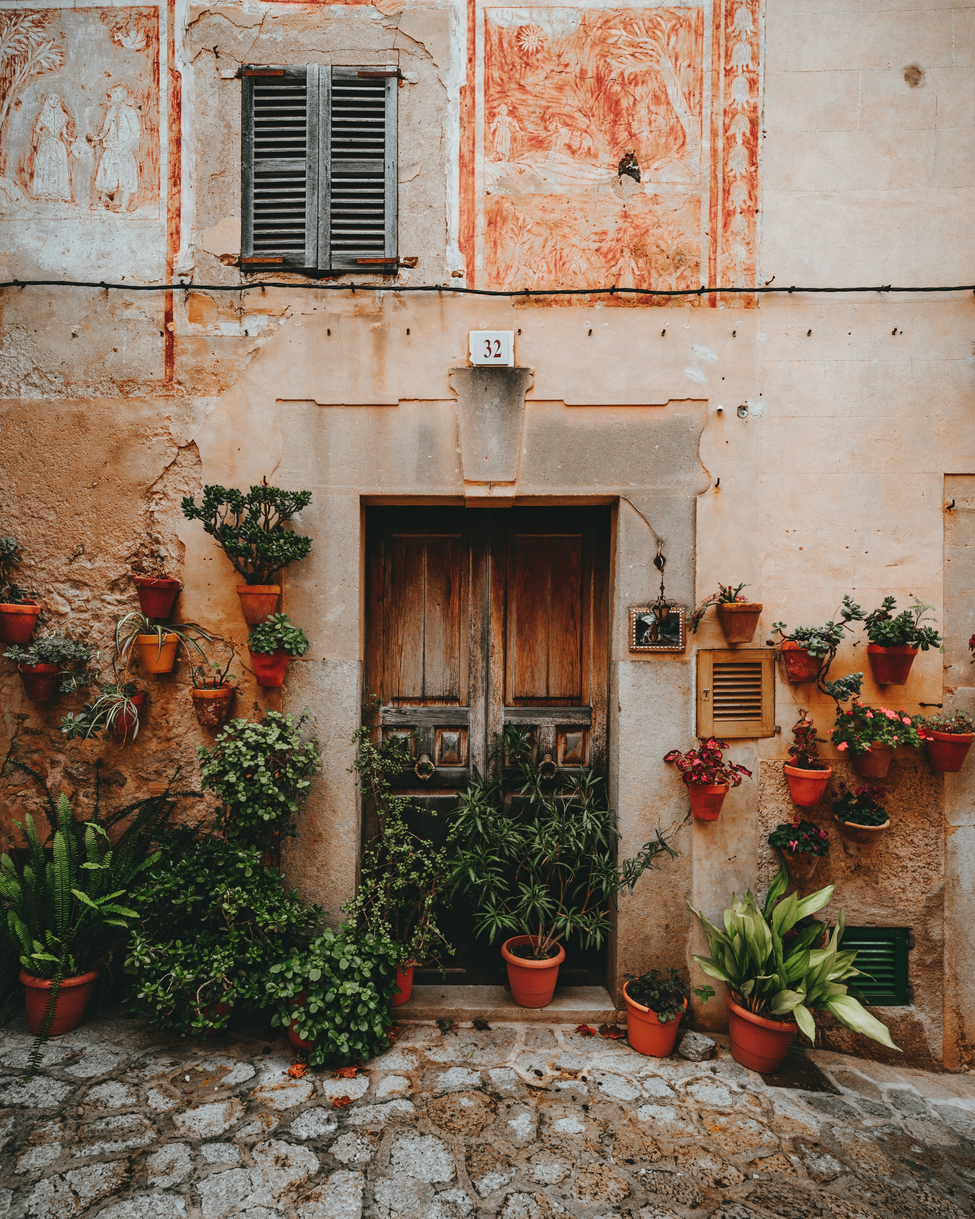
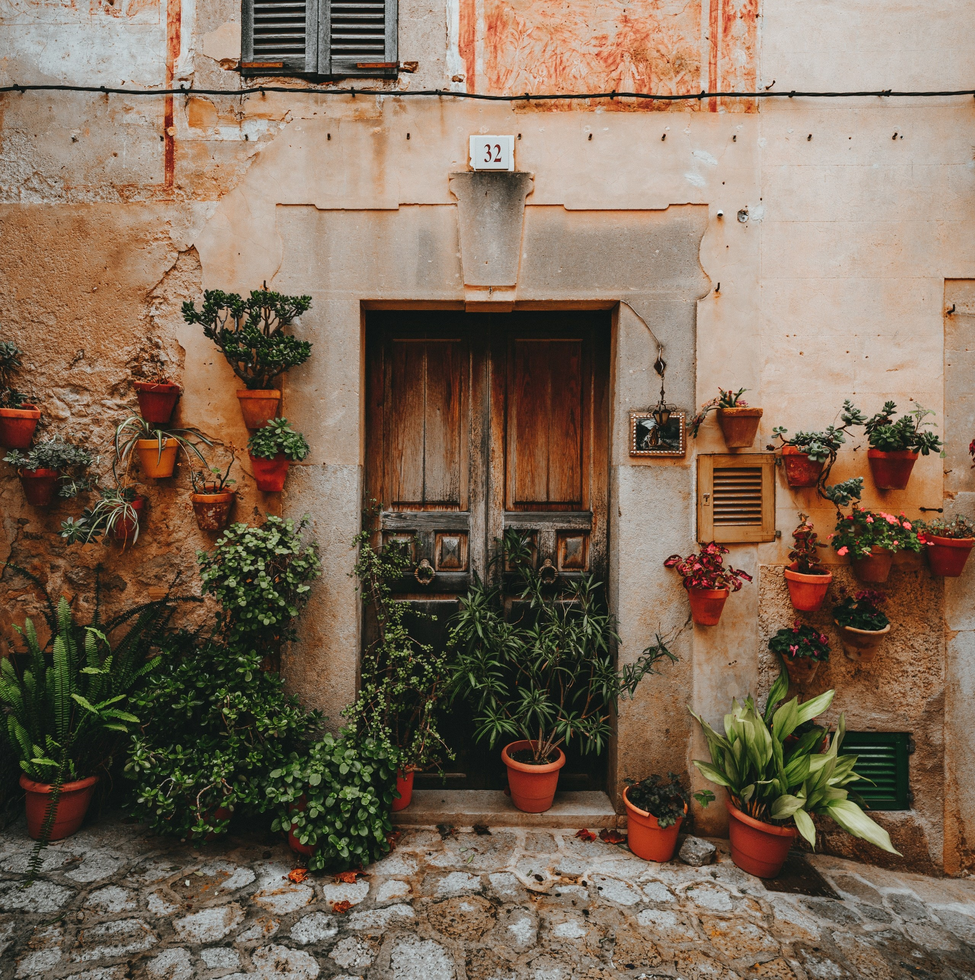
secondary pages completed

diff --git a/valencia.html b/valencia.html
@@ -28,7 +28,7 @@
        </div>
         <!----------------------------------------- PHOTO BANNER -------------------------------------------->
         <div id="photo">
-            <img src="./images/travel_experience_avila.jpg" alt="mario with farmer" class="experience_photo">
+            <img src="./images/valencia_header.jpg" alt="mario with farmer" class="experience_photo">
         </div>
 
         <!----------------------------------------- EXPERIENCES -------------------------------------------->
@@ -38,22 +38,23 @@
         </div>
         <div class="text_div">
             <div id="text_description">
-                <a class="text" id = "avila_text"> Ávila is a city of Spain located in the autonomous community of Castile and León. 
-                    It is the capital and most populated municipality of the Province of Ávila. <br>
-                    <br>
-                    It lies on the right bank of the Adaja river. Located more than 1,130 m above sea level, the city is the highest provincial capital in Spain. <br> 
-                    <br>
-                    Distinctly known by its medieval walls, Ávila is sometimes called the Town of Stones and Saints, and it claims that it is one of the towns with the 
-                    highest number of Romanesque and Gothic churches per capita in Spain.[5] It has complete and prominent medieval town walls, built in the Romanesque 
-                    style; writer José Martínez Ruiz, in his book El alma castellana ("The Castilian Soul"), described it as "perhaps the most 16th-century town in Spain". 
-                    The town is also known as Ávila de los Caballeros, Ávila del Rey and Ávila de los Leales ("Ávila of the knights", "Ávila of the king", 
-                    "Ávila of the loyal ones"), each of these epithets being present in the town standard. <br>
-                    <br>
-                    Orson Welles once named Ávila as the place in which he would most desire to live, calling it a "strange, tragic place".[6] Various scenes 
-                    of his 1965 film Chimes at Midnight were filmed in the town. <br>
-                    <br>
-                    Ávila was declared a UNESCO World Heritage Site in 1985. The site originally consisted of the walled city and four extra muros churches. 
-                    The number of churches included in the site has since been increased.  </a>
+                <a class="text" id = "avila_text"> Valencia (Spanish: [baˈlenθja]), officially València (Valencian: 
+                    [vaˈlensi.a], locally [baˈlensi.a]),[5] is the capital of the autonomous community of Valencia and 
+                    the third-largest city in Spain after Madrid and Barcelona, surpassing 800,000 inhabitants in the municipality. 
+                    The wider urban area also comprising the neighbouring municipalities has a population of around 1.6 million.
+                    [3][6] Valencia is Spain's third-largest metropolitan area, with a population ranging from 1.7 to 2.5 million[2] 
+                    depending on how the metropolitan area is defined. The Port of Valencia is the 5th-busiest container port in 
+                    Europe and the busiest container port on the Mediterranean Sea. The city is ranked as a Gamma-level global 
+                    city by the Globalization and World Cities Research Network.[7]
+                    <br><br>
+                    Valencia was founded as a Roman colony by the consul Decimus Junius Brutus Callaicus in 138 BC and 
+                    called Valentia Edetanorum. In 714, Moroccan and Arab Moors occupied the city, introducing their language, 
+                    religion and customs; they implemented improved irrigation systems and the cultivation of new crops as well. 
+                    Valencia was the capital of the Taifa of Valencia. In 1238 the Christian king James I of Aragon conquered the 
+                    city and divided the land among the nobles who helped him conquer it, as witnessed in the Llibre del Repartiment. 
+                    He also created the new Kingdom of Valencia, which had its own laws (Furs), with Valencia as its main city and capital. 
+                    In the 18th century Philip V of Spain abolished the privileges as punishment to the kingdom of Valencia for 
+                    aligning with the Habsburg side in the War of the Spanish Succession.  </a>
             </div>
         </div>
         <!----------------------------------------- PHOTOS -------------------------------------------->
@@ -66,11 +67,11 @@
         </div>
         <!----------------------------------------- VIDEOS -------------------------------------------->
         <div class="video_container">
-            <iframe class="video" src="https://www.youtube.com/embed/90lkCZdPh6M" title="YouTube video player" frameborder="0" allow="accelerometer; autoplay; clipboard-write; encrypted-media; gyroscope; picture-in-picture" allowfullscreen></iframe>
-            <iframe class="video" src="https://www.youtube.com/embed/wtDapD-Lh4k" title="YouTube video player" frameborder="0" allow="accelerometer; autoplay; clipboard-write; encrypted-media; gyroscope; picture-in-picture" allowfullscreen></iframe>
-            <iframe class="video" src="https://www.youtube.com/embed/dokfAnITHFM" title="YouTube video player" frameborder="0" allow="accelerometer; autoplay; clipboard-write; encrypted-media; gyroscope; picture-in-picture" allowfullscreen></iframe>
-            <iframe class="video" src="https://www.youtube.com/embed/9nf0vigenSo" title="YouTube video player" frameborder="0" allow="accelerometer; autoplay; clipboard-write; encrypted-media; gyroscope; picture-in-picture" allowfullscreen></iframe>
-            <iframe class="video" src="https://www.youtube.com/embed/2QcrdB6I_F8" title="YouTube video player" frameborder="0" allow="accelerometer; autoplay; clipboard-write; encrypted-media; gyroscope; picture-in-picture" allowfullscreen></iframe>
+            <iframe class="video" src="https://www.youtube.com/embed/f4-KyQgJKEQ" title="YouTube video player" frameborder="0" allow="accelerometer; autoplay; clipboard-write; encrypted-media; gyroscope; picture-in-picture" allowfullscreen></iframe>
+            <iframe class="video" src="https://www.youtube.com/embed/UPlEaOIRWGk" title="YouTube video player" frameborder="0" allow="accelerometer; autoplay; clipboard-write; encrypted-media; gyroscope; picture-in-picture" allowfullscreen></iframe>
+            <iframe class="video" src="https://www.youtube.com/embed/jVuixP6qJL8" title="YouTube video player" frameborder="0" allow="accelerometer; autoplay; clipboard-write; encrypted-media; gyroscope; picture-in-picture" allowfullscreen></iframe>
+            <iframe class="video" src="https://www.youtube.com/embed/pt8FlF0d72c" title="YouTube video player" frameborder="0" allow="accelerometer; autoplay; clipboard-write; encrypted-media; gyroscope; picture-in-picture" allowfullscreen></iframe>
+            <iframe class="video" src="https://www.youtube.com/embed/hKyf2rrOidQ" title="YouTube video player" frameborder="0" allow="accelerometer; autoplay; clipboard-write; encrypted-media; gyroscope; picture-in-picture" allowfullscreen></iframe>
         </div>
         <!---------------------------------------------------FOOTER------------------------------------------------------------------>
         <div id="footer">

diff --git a/cadiz.html b/cadiz.html
@@ -28,7 +28,7 @@
        </div>
         <!----------------------------------------- PHOTO BANNER -------------------------------------------->
         <div id="photo">
-            <img src="./images/travel_experience_avila.jpg" alt="mario with farmer" class="experience_photo">
+            <img src="./images/cadiz_header.jpg" alt="mario with farmer" class="experience_photo">
         </div>
 
         <!----------------------------------------- EXPERIENCES -------------------------------------------->
@@ -38,22 +38,24 @@
         </div>
         <div class="text_div">
             <div id="text_description">
-                <a class="text" id = "avila_text"> Ávila is a city of Spain located in the autonomous community of Castile and León. 
-                    It is the capital and most populated municipality of the Province of Ávila. <br>
-                    <br>
-                    It lies on the right bank of the Adaja river. Located more than 1,130 m above sea level, the city is the highest provincial capital in Spain. <br> 
-                    <br>
-                    Distinctly known by its medieval walls, Ávila is sometimes called the Town of Stones and Saints, and it claims that it is one of the towns with the 
-                    highest number of Romanesque and Gothic churches per capita in Spain.[5] It has complete and prominent medieval town walls, built in the Romanesque 
-                    style; writer José Martínez Ruiz, in his book El alma castellana ("The Castilian Soul"), described it as "perhaps the most 16th-century town in Spain". 
-                    The town is also known as Ávila de los Caballeros, Ávila del Rey and Ávila de los Leales ("Ávila of the knights", "Ávila of the king", 
-                    "Ávila of the loyal ones"), each of these epithets being present in the town standard. <br>
-                    <br>
-                    Orson Welles once named Ávila as the place in which he would most desire to live, calling it a "strange, tragic place".[6] Various scenes 
-                    of his 1965 film Chimes at Midnight were filmed in the town. <br>
-                    <br>
-                    Ávila was declared a UNESCO World Heritage Site in 1985. The site originally consisted of the walled city and four extra muros churches. 
-                    The number of churches included in the site has since been increased.  </a>
+                <a class="text" id = "avila_text"> Cádiz (/kəˈdɪz/, also US: /ˈkeɪdɪz, ˈkæd-, ˈkɑːd-/,[2][3][4] Spanish: [ˈkaðiθ]; 
+                    see more below) is a city and port in southwestern Spain. It is the capital of the Province of Cádiz, one of 
+                    eight that make up the autonomous community of Andalusia.
+                    <br><br>
+                    Cádiz, one of the oldest continuously inhabited cities in Western Europe, with archaeological 
+                    remains dating to the 8th century BC,[5][6][7][8] was founded by the Phoenicians.[9] It has been 
+                    a principal home port of the Spanish Navy since the accession of the Spanish Bourbons in the 18th 
+                    century. It is also the site of the University of Cádiz.
+                    <br><br>
+                    Situated on a narrow slice of land surrounded by the sea‚ Cádiz is, in most respects, a 
+                    typically Andalusian city with well-preserved historical landmarks. The older part of Cádiz, 
+                    within the remnants of the city walls, is commonly referred to as the Old Town (Spanish: Casco Antiguo). 
+                    It is characterized by the antiquity of its various quarters (barrios), among them El Pópulo, La Viña, 
+                    and Santa María, which present a marked contrast to the newer areas of town. While the Old City's street 
+                    plan consists of narrow winding alleys connecting large plazas, newer areas of Cádiz typically have wide 
+                    avenues and more modern buildings. In addition, the city is dotted with numerous parks where exotic plants 
+                    flourish, including giant trees allegedly brought to Spain by Columbus from the New World. 
+                </a>
             </div>
         </div>
         <!----------------------------------------- PHOTOS -------------------------------------------->
@@ -66,11 +68,11 @@
         </div>
         <!----------------------------------------- VIDEOS -------------------------------------------->
         <div class="video_container">
-            <iframe class="video" src="https://www.youtube.com/embed/90lkCZdPh6M" title="YouTube video player" frameborder="0" allow="accelerometer; autoplay; clipboard-write; encrypted-media; gyroscope; picture-in-picture" allowfullscreen></iframe>
-            <iframe class="video" src="https://www.youtube.com/embed/wtDapD-Lh4k" title="YouTube video player" frameborder="0" allow="accelerometer; autoplay; clipboard-write; encrypted-media; gyroscope; picture-in-picture" allowfullscreen></iframe>
-            <iframe class="video" src="https://www.youtube.com/embed/dokfAnITHFM" title="YouTube video player" frameborder="0" allow="accelerometer; autoplay; clipboard-write; encrypted-media; gyroscope; picture-in-picture" allowfullscreen></iframe>
-            <iframe class="video" src="https://www.youtube.com/embed/9nf0vigenSo" title="YouTube video player" frameborder="0" allow="accelerometer; autoplay; clipboard-write; encrypted-media; gyroscope; picture-in-picture" allowfullscreen></iframe>
-            <iframe class="video" src="https://www.youtube.com/embed/2QcrdB6I_F8" title="YouTube video player" frameborder="0" allow="accelerometer; autoplay; clipboard-write; encrypted-media; gyroscope; picture-in-picture" allowfullscreen></iframe>
+            <iframe class="video" src="https://www.youtube.com/embed/gWmNtpU6fpQ" title="YouTube video player" frameborder="0" allow="accelerometer; autoplay; clipboard-write; encrypted-media; gyroscope; picture-in-picture" allowfullscreen></iframe>
+            <iframe class="video" src="https://www.youtube.com/embed/WgqIRWIXwrc" title="YouTube video player" frameborder="0" allow="accelerometer; autoplay; clipboard-write; encrypted-media; gyroscope; picture-in-picture" allowfullscreen></iframe>
+            <iframe class="video" src="https://www.youtube.com/embed/d8B_QJ-PDqE" title="YouTube video player" frameborder="0" allow="accelerometer; autoplay; clipboard-write; encrypted-media; gyroscope; picture-in-picture" allowfullscreen></iframe>
+            <iframe class="video" src="https://www.youtube.com/embed/vWuaU9n9bho" title="YouTube video player" frameborder="0" allow="accelerometer; autoplay; clipboard-write; encrypted-media; gyroscope; picture-in-picture" allowfullscreen></iframe>
+            <iframe class="video" src="https://www.youtube.com/embed/v-CHOwvaPeM" title="YouTube video player" frameborder="0" allow="accelerometer; autoplay; clipboard-write; encrypted-media; gyroscope; picture-in-picture" allowfullscreen></iframe>
         </div>
         <!---------------------------------------------------FOOTER------------------------------------------------------------------>
         <div id="footer">

diff --git a/mallorca.html b/mallorca.html
@@ -28,7 +28,7 @@
        </div>
         <!----------------------------------------- PHOTO BANNER -------------------------------------------->
         <div id="photo">
-            <img src="./images/travel_experience_avila.jpg" alt="mario with farmer" class="experience_photo">
+            <img src="./images/mallorca_header.jpg" alt="mario with farmer" class="experience_photo">
         </div>
 
         <!----------------------------------------- EXPERIENCES -------------------------------------------->
@@ -38,22 +38,20 @@
         </div>
         <div class="text_div">
             <div id="text_description">
-                <a class="text" id = "avila_text"> Ávila is a city of Spain located in the autonomous community of Castile and León. 
-                    It is the capital and most populated municipality of the Province of Ávila. <br>
-                    <br>
-                    It lies on the right bank of the Adaja river. Located more than 1,130 m above sea level, the city is the highest provincial capital in Spain. <br> 
-                    <br>
-                    Distinctly known by its medieval walls, Ávila is sometimes called the Town of Stones and Saints, and it claims that it is one of the towns with the 
-                    highest number of Romanesque and Gothic churches per capita in Spain.[5] It has complete and prominent medieval town walls, built in the Romanesque 
-                    style; writer José Martínez Ruiz, in his book El alma castellana ("The Castilian Soul"), described it as "perhaps the most 16th-century town in Spain". 
-                    The town is also known as Ávila de los Caballeros, Ávila del Rey and Ávila de los Leales ("Ávila of the knights", "Ávila of the king", 
-                    "Ávila of the loyal ones"), each of these epithets being present in the town standard. <br>
-                    <br>
-                    Orson Welles once named Ávila as the place in which he would most desire to live, calling it a "strange, tragic place".[6] Various scenes 
-                    of his 1965 film Chimes at Midnight were filmed in the town. <br>
-                    <br>
-                    Ávila was declared a UNESCO World Heritage Site in 1985. The site originally consisted of the walled city and four extra muros churches. 
-                    The number of churches included in the site has since been increased.  </a>
+                <a class="text" id = "avila_text"> Mallorca (Catalan: [məˈʎɔɾkə], Spanish: [maˈʎoɾka]) or 
+                    Majorca (English: /məˈjɔːrkə, maɪ-, -ˈdʒɔːr-/ mə-YOR-kə, my-, -JOR-)[2][3] is the 
+                    largest island in the Balearic Islands, which are part of Spain and located in the Mediterranean.
+                    <br><br>
+                    The capital of the island, Palma, is also the capital of the autonomous community of 
+                    the Balearic Islands. The Balearic Islands have been an autonomous region of Spain 
+                    since 1983.[4] There are two small islands off the coast of Mallorca: Cabrera 
+                    (southeast of Palma) and Dragonera (west of Palma). The anthem of Mallorca is "La Balanguera".
+                    <br><br>
+                    Like the other Balearic Islands of Menorca, Ibiza and Formentera, the island is an 
+                    extremely popular holiday destination, particularly for tourists from Germany and 
+                    the United Kingdom. The international airport, Palma de Mallorca Airport, is one of 
+                    the busiest in Spain; it was used by 28 million passengers in 2017, with use increasing every year since 2012.
+                </a>
             </div>
         </div>
         <!----------------------------------------- PHOTOS -------------------------------------------->
@@ -66,11 +64,11 @@
         </div>
         <!----------------------------------------- VIDEOS -------------------------------------------->
         <div class="video_container">
-            <iframe class="video" src="https://www.youtube.com/embed/90lkCZdPh6M" title="YouTube video player" frameborder="0" allow="accelerometer; autoplay; clipboard-write; encrypted-media; gyroscope; picture-in-picture" allowfullscreen></iframe>
-            <iframe class="video" src="https://www.youtube.com/embed/wtDapD-Lh4k" title="YouTube video player" frameborder="0" allow="accelerometer; autoplay; clipboard-write; encrypted-media; gyroscope; picture-in-picture" allowfullscreen></iframe>
-            <iframe class="video" src="https://www.youtube.com/embed/dokfAnITHFM" title="YouTube video player" frameborder="0" allow="accelerometer; autoplay; clipboard-write; encrypted-media; gyroscope; picture-in-picture" allowfullscreen></iframe>
-            <iframe class="video" src="https://www.youtube.com/embed/9nf0vigenSo" title="YouTube video player" frameborder="0" allow="accelerometer; autoplay; clipboard-write; encrypted-media; gyroscope; picture-in-picture" allowfullscreen></iframe>
-            <iframe class="video" src="https://www.youtube.com/embed/2QcrdB6I_F8" title="YouTube video player" frameborder="0" allow="accelerometer; autoplay; clipboard-write; encrypted-media; gyroscope; picture-in-picture" allowfullscreen></iframe>
+            <iframe class="video" src="https://www.youtube.com/embed/3v90O75rhNk" title="YouTube video player" frameborder="0" allow="accelerometer; autoplay; clipboard-write; encrypted-media; gyroscope; picture-in-picture" allowfullscreen></iframe>
+            <iframe class="video" src="https://www.youtube.com/embed/80fyWFgctYA" title="YouTube video player" frameborder="0" allow="accelerometer; autoplay; clipboard-write; encrypted-media; gyroscope; picture-in-picture" allowfullscreen></iframe>
+            <iframe class="video" src="https://www.youtube.com/embed/d5tevmNdd3U" title="YouTube video player" frameborder="0" allow="accelerometer; autoplay; clipboard-write; encrypted-media; gyroscope; picture-in-picture" allowfullscreen></iframe>
+            <iframe class="video" src="https://www.youtube.com/embed/B9xd-67cftI" title="YouTube video player" frameborder="0" allow="accelerometer; autoplay; clipboard-write; encrypted-media; gyroscope; picture-in-picture" allowfullscreen></iframe>
+            <iframe class="video" src="https://www.youtube.com/embed/QNlGBkHM3vw" title="YouTube video player" frameborder="0" allow="accelerometer; autoplay; clipboard-write; encrypted-media; gyroscope; picture-in-picture" allowfullscreen></iframe>
         </div>
         <!---------------------------------------------------FOOTER------------------------------------------------------------------>
         <div id="footer">
